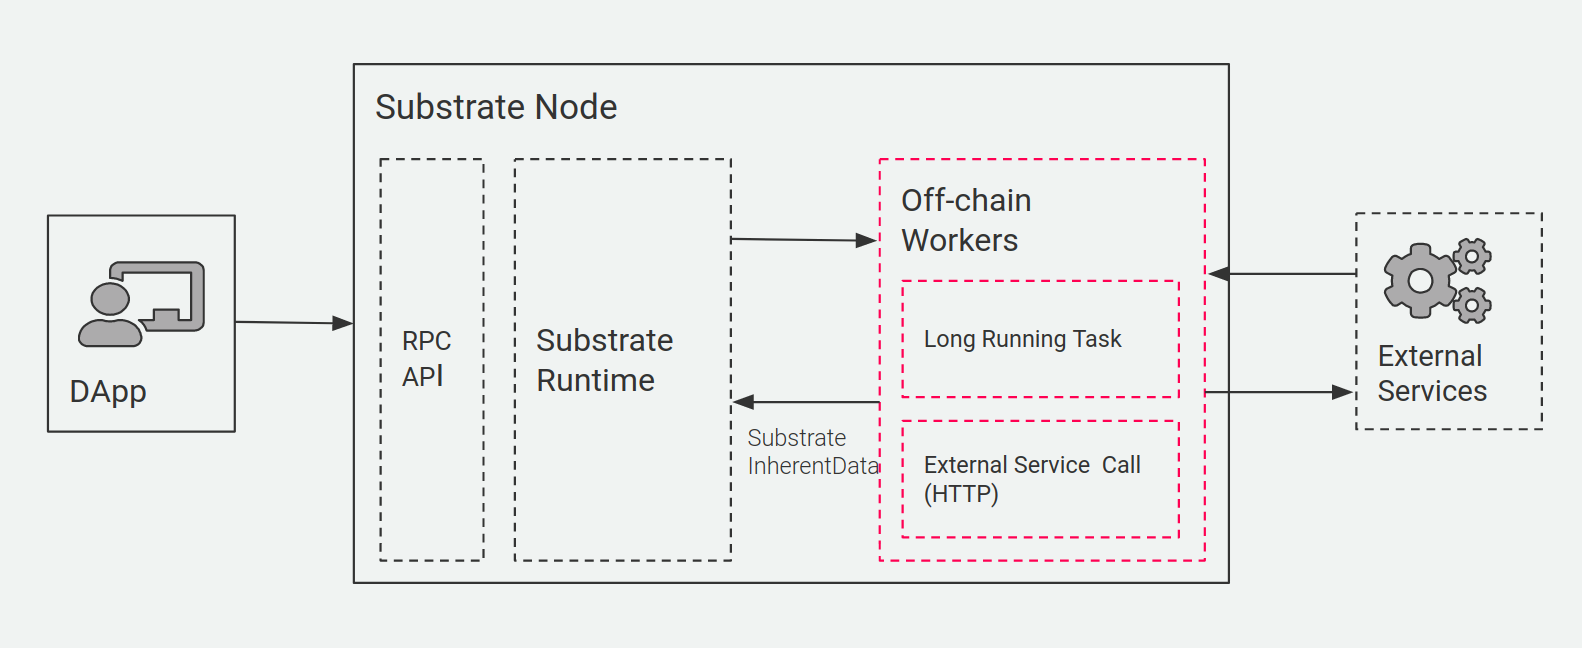
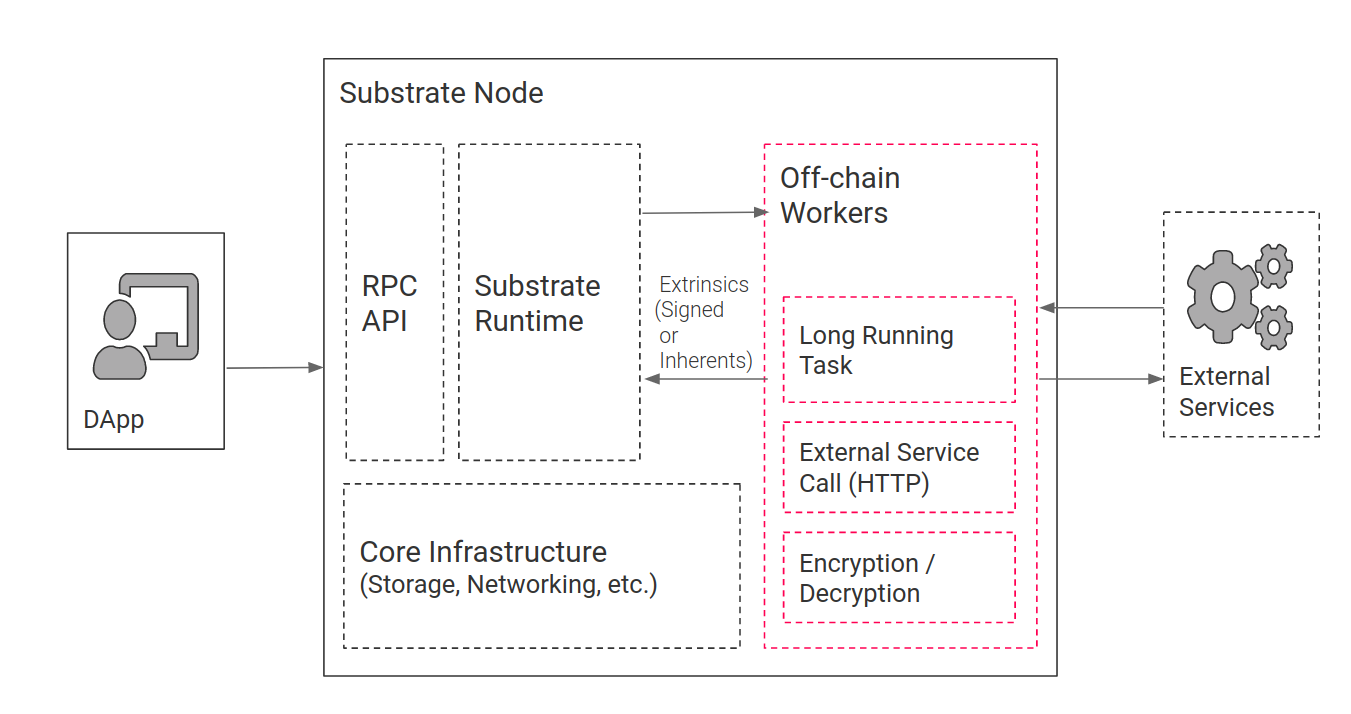
addressed review comments

diff --git a/docs/overview/off-chain-workers.md b/docs/overview/off-chain-workers.md
@@ -2,11 +2,11 @@
 title: "Substrate Off-chain Workers"
 ---
 
-Many a times, there is a need of querying and/or processing of off-chain data before it can be included into the on-chain state. The conventional way of doing this is through oracles. Oracles are external services which, typically, listen to blockchain events and trigger tasks accordingly. When these tasks running inside the oracle complete, their result is submitted back to the blockchain using transactions. While this approach works, it still has several flaws w.r.t. security, scalability and infrastructure efficiency.
+Many a times, there is a need of querying and/or processing off-chain data before it can be included in the on-chain state. The conventional way of doing this is through oracles. Oracles are external services which, typically, listen to blockchain events and trigger tasks accordingly. When these tasks complete, their result is submitted back to the blockchain using transactions. While this approach works, it still has several flaws w.r.t. security, scalability and infrastructure efficiency.
 
-To make the off-chain data integration secure and more efficient, Substrate includes off-chain workers. The off-chain worker subsystem allows execution of long-running tasks (web requests, encryption/decryption and signing of data, random number generation, etc.) which would require longer than the block execution time. 
+To make the off-chain data integration secure and more efficient, Substrate provides off-chain workers. The off-chain worker subsystem allows execution of long-running and possibly non deterministic tasks (web requests, encryption/decryption and signing of data, random number generation, CPU-intensive computations, enumeration/aggregation of on-chain data, etc.) which would otherwise require longer than the block execution time.
 
-The off-chain workers have their own Wasm execution environment outside of the Substrate runtime. This separation of concerns is to make sure that the block production is not impacted by the long-running tasks. The communication between the off-chain workers and the Substrate runtime is done using `InherentData`. When a task in the off-chain worker completes execution, its result can be submitted back to the runtime using `InherentData`.
+The off-chain workers have their own Wasm execution environment outside of the Substrate runtime. This separation of concerns is to make sure that the block production is not impacted by the long-running tasks. However, as the off-chain workers are declared in the same code as the runtime, they can easily access on-chain state for their computations. To communicate results back on chain, off-chain workers can submit extrinsics (signed or inherent) that are later included in subsequent blocks.
 
 The following diagram depicts how off-chain workers work within the Substrate node:
 
@@ -15,8 +15,9 @@ The following diagram depicts how off-chain workers work within the Substrate no
 Here are some of the advantages of using off-chain workers in comparison to using external oracles:
 
 1. Off-chain workers, being part of the Substrate node, provide more decentralization as compared to a centralized oracle service.
-2. With a sandboxed Wasm execution environment, off-chain workers are fully secure while still providing seamless integration with the runtime using `InherentData`.
+2. With a sandboxed Wasm execution environment, off-chain workers are fully secure while still providing seamless integration with the runtime using extrinsics.
 3. No need for maintaining external "glue" services and infrastructure. This reduces maintenance and infrastructure costs for the node operators.
+4. Off-chain workers code is also stored on-chain, which allows off-chain logic updates via standard governance mechanism and seamless upgrades (using Wasm execution fallback logic).
 
 The following APIs are planned to be supported by off-chain workers:
 
@@ -24,5 +25,7 @@ The following APIs are planned to be supported by off-chain workers:
 2. Signing
 3. Local storage - Get and Set
 4. HTTP Requests
+5. Key generation
+6. Randon number generation
 
-**Note:** Some of these APIs are still under development. More information and usage documentation will be available as and when the APIs are available for use.
+**Note:** Some of these APIs are still under development. More information and usage documentation will be published as and when the APIs are available for use.
